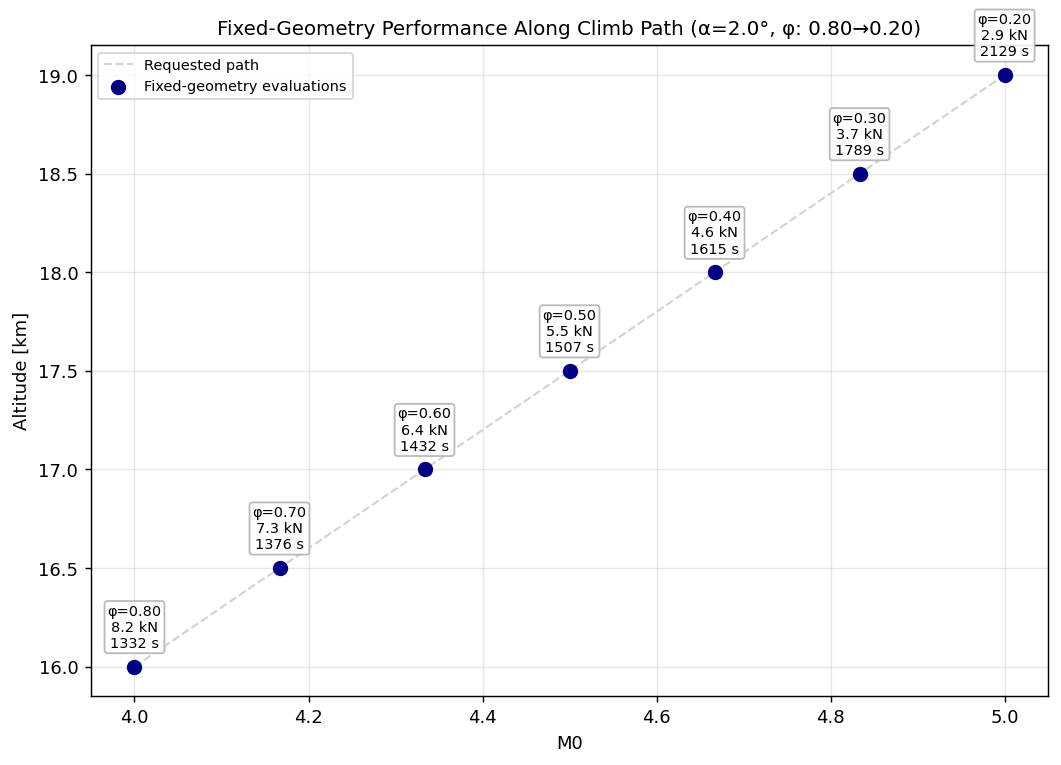
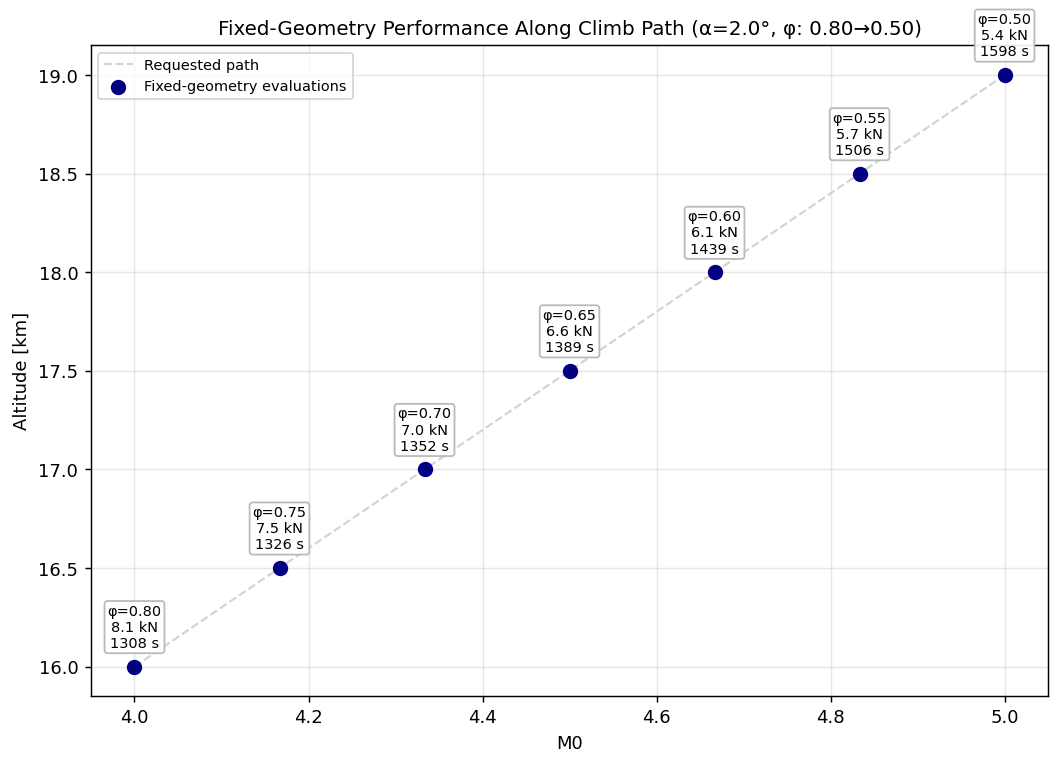
asdfawe

diff --git a/402 - optimizer rewrite/combined_cycle_liquid_ram_scram/plots_pycycle.py b/402 - optimizer rewrite/combined_cycle_liquid_ram_scram/plots_pycycle.py
@@ -1203,6 +1203,85 @@ def fig_performance(results, mach_range,
     _save(fig, 'performance_vs_mach')
 
 
+def fig_thrust_decomposition(results, mach_range,
+                             altitude_m=ALT_DEFAULT,
+                             alpha_deg=INLET_DESIGN_ALPHA_DEG,
+                             phi_command=None):
+    """Decompose net thrust into momentum, pressure, and ram-drag contributions.
+
+    At lean-φ / high-Mach, F_momentum and ram_drag both grow large while their
+    difference (F_net) shrinks — making Isp = F_net / (Wfuel·g0) blow up. The
+    bottom panel plots |F_net| / ram_drag as a "useful-thrust ratio" so it's
+    obvious when the engine is in the cancellation regime.
+    """
+    F_mom   = _arr(results, 'F_momentum')
+    F_pres  = _arr(results, 'F_pressure')
+    Fg      = _arr(results, 'Fg')
+    Fram    = _arr(results, 'ram_drag')
+    Fnet    = _arr(results, 'thrust')
+    Pt4_P0  = _arr(results, 'Pt4_over_P0')
+    p_crit  = _arr(results, 'p_crit_ratio')
+
+    with np.errstate(invalid='ignore', divide='ignore'):
+        useful_ratio = np.abs(Fnet) / np.maximum(Fram, 1.0e-12)
+
+    fig, axes = plt.subplots(2, 2, figsize=(14, 8.5), sharex=True)
+
+    ax = axes[0, 0]
+    ax.plot(mach_range, F_mom / 1e3, 'o-', color='steelblue',
+            label='F_momentum = ṁ_tot · V9')
+    ax.plot(mach_range, Fram / 1e3, 's-', color='firebrick',
+            label='ram_drag (subtracted)')
+    ax.plot(mach_range, Fg / 1e3, '^-', color='darkgreen',
+            label='F_gross = F_mom + F_pressure')
+    ax.plot(mach_range, Fnet / 1e3, 'd-', color='black', lw=2.0,
+            label='F_net = F_gross − ram_drag')
+    ax.axhline(0.0, color='0.5', lw=0.8, ls=':')
+    ax.set_ylabel('Force [kN]')
+    ax.set_title('Thrust decomposition')
+    ax.legend(loc='best', fontsize=8)
+
+    ax = axes[0, 1]
+    ax.plot(mach_range, F_pres / 1e3, 'o-', color='darkorange',
+            label='F_pressure = (Ps9 − P0)·Ae')
+    ax.axhline(0.0, color='0.5', lw=0.8, ls=':')
+    ax.set_ylabel('Pressure-term thrust [kN]')
+    ax.set_title('Nozzle expansion contribution')
+    ax.legend(loc='best', fontsize=8)
+
+    ax = axes[1, 0]
+    ax.plot(mach_range, useful_ratio, 'o-', color='purple')
+    ax.axhline(0.05, color='red', lw=1.0, ls='--',
+               label='5% threshold (Isp unreliable below)')
+    ax.set_ylabel('|F_net| / ram_drag  [-]')
+    ax.set_xlabel('M0')
+    ax.set_title('Useful-thrust ratio (cancellation indicator)')
+    ax.set_yscale('log')
+    ax.legend(loc='best', fontsize=8)
+
+    ax = axes[1, 1]
+    ax.plot(mach_range, Pt4_P0, 'o-', color='navy', label='Pt4 / P0')
+    ax.plot(mach_range, p_crit, '--', color='gray',
+            label='p_crit (choking threshold)')
+    ax.set_ylabel('Pressure ratio [-]')
+    ax.set_xlabel('M0')
+    ax.set_title('Nozzle choking margin')
+    ax.legend(loc='best', fontsize=8)
+
+    if phi_command is None:
+        phi_text = ''
+    else:
+        phi_command = np.asarray(phi_command, dtype=float)
+        if np.allclose(phi_command, phi_command[0]):
+            phi_text = f', φ={phi_command[0]:.2f}'
+        else:
+            phi_text = (f', φ: {phi_command[0]:.2f}→{phi_command[-1]:.2f}')
+    fig.suptitle(f'Thrust decomposition  (alt={altitude_m/1e3:.1f} km, '
+                 f'α={alpha_deg:+.1f}°{phi_text})')
+    fig.tight_layout(rect=(0, 0, 1, 0.97))
+    _save(fig, 'thrust_decomposition_vs_mach')
+
+
 def fig_performance_vs_alt(results, alt_range,
                            M0=INLET_DESIGN_M0,
                            alpha_deg=INLET_DESIGN_ALPHA_DEG,
@@ -2028,7 +2107,7 @@ def main():
     PHI_SCHEDULE_M_LO   = 4.0
     PHI_SCHEDULE_M_HI   = 5.0
     PHI_SCHEDULE_PHI_LO = 0.8
-    PHI_SCHEDULE_PHI_HI = 0.2
+    PHI_SCHEDULE_PHI_HI = 0.5
     phi_schedule_fn = lambda M: phi_schedule(
         M, PHI_SCHEDULE_M_LO, PHI_SCHEDULE_M_HI,
         PHI_SCHEDULE_PHI_LO, PHI_SCHEDULE_PHI_HI,
@@ -2113,6 +2192,11 @@ def main():
                     altitude_m=sweep_altitude_m,
                     alpha_deg=sweep_alpha_deg,
                     phi_command=phi_command_array)
+
+    fig_thrust_decomposition(results, mach_range,
+                             altitude_m=sweep_altitude_m,
+                             alpha_deg=sweep_alpha_deg,
+                             phi_command=phi_command_array)
 
 
     """

diff --git a/402 - optimizer rewrite/combined_cycle_liquid_ram_scram/pyc_run.py b/402 - optimizer rewrite/combined_cycle_liquid_ram_scram/pyc_run.py
@@ -1157,6 +1157,8 @@ def analyze(
         V9     = 0.0
         Fg_N   = 0.0
         Fn_N   = -ram_drag_N
+        nozzle_eta_Pt = 1.0
+        Pt9_Pa = Pt4_Pa
     else:
         M9 = float(_inlet2.invert_area_mach_ratio_supersonic(area_ratio_frozen,
                                                               gamma=gamma4_K))
@@ -1166,13 +1168,26 @@ def analyze(
         M9 = float(_inlet2.invert_area_mach_ratio_supersonic(area_ratio_frozen,
                                                               gamma=gamma9))
         T9 = Tt4_K / (1.0 + 0.5 * (gamma9 - 1.0) * M9 * M9)
-        Ps9 = Pt4_Pa / (1.0 + 0.5 * (gamma9 - 1.0) * M9 * M9) ** (gamma9 / (gamma9 - 1.0))
+        # Nozzle Pt-loss equivalent to velocity coefficient Cv. The diverging
+        # section generates entropy, so Pt drops between the burner exit and
+        # the nozzle exit. Modeling Pt9 = Pt4 · Cv² makes Ps9 consistent with
+        # V9 = Cv · V9_ideal — both reflect the same lumped nozzle loss.
+        nozzle_eta_Pt = ETA_NOZZLE_CV * ETA_NOZZLE_CV
+        Pt9_Pa = Pt4_Pa * nozzle_eta_Pt
+        Ps9 = Pt9_Pa / (1.0 + 0.5 * (gamma9 - 1.0) * M9 * M9) ** (gamma9 / (gamma9 - 1.0))
         V9_ideal = M9 * np.sqrt(gamma9 * R9 * T9)
         V9 = ETA_NOZZLE_CV * V9_ideal
         Fg_N = mdot_tot_kgs * V9 + (Ps9 - P0) * exit_area_m2
         Fn_N = Fg_N - ram_drag_N
     F_sp = Fn_N / max(W_kgs, 1.0e-12)
     Isp  = Fn_N / max(Wfuel * G0, 1.0e-12)
+
+    # Thrust decomposition for diagnostics (see fig_thrust_decomposition).
+    F_momentum_N = float(mdot_tot_kgs * V9)
+    F_pressure_N = float((Ps9 - P0) * exit_area_m2)
+    p_crit_ratio = float(((gamma9 + 1.0) / 2.0) ** (gamma9 / (gamma9 - 1.0)))
+    nozzle_choked = bool(Pt4_Pa / max(P0, 1.0) >= p_crit_ratio
+                         and area_ratio_frozen >= 1.0 + 1.0e-9)
 
     nozzle_throat = {
         "area":  throat_area_m2,
@@ -1275,6 +1290,19 @@ def analyze(
         capability=capability,
         Isp=Isp, F_sp=F_sp, thrust=Fn_N,
         mdot_air=W_kgs, mdot_fuel=Wfuel,
+        # Thrust-decomposition diagnostics
+        Fg=float(Fg_N),
+        ram_drag=float(ram_drag_N),
+        F_momentum=F_momentum_N,
+        F_pressure=F_pressure_N,
+        V9=float(V9),
+        mdot_total=float(mdot_tot_kgs),
+        Pt4_over_P0=float(Pt4_Pa / max(P0, 1.0e-12)),
+        Pt9=float(Pt9_Pa),
+        Pt9_over_P0=float(Pt9_Pa / max(P0, 1.0e-12)),
+        nozzle_eta_Pt=float(nozzle_eta_Pt),
+        p_crit_ratio=p_crit_ratio,
+        nozzle_choked=nozzle_choked,
         eta_pt=ram_closure['inlet_inputs']['ram_recovery'],
         choked=choked,
         unstart_flag=ram_closure['inlet_inputs']['unstart_flag'],
